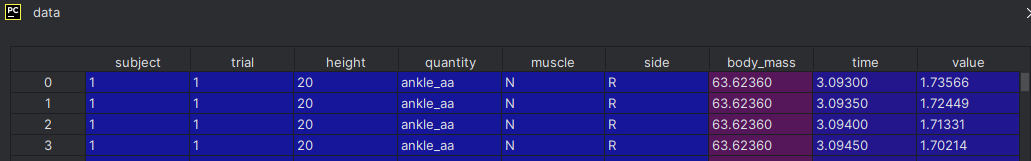
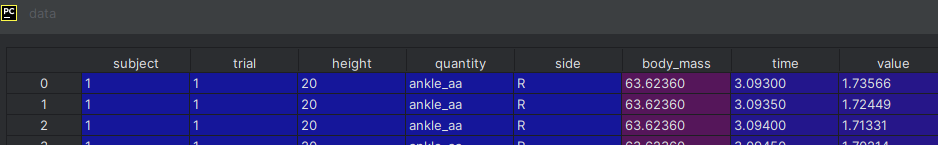
aggiornamento: tutti i files puliti e commentati

Changed region(s): [[0.0309, 0.3586, 1.0, 1.0], [0.0, 0.0, 0.0618, 0.1655], [0.9893, 0.0552, 1.0, 0.1103]]

diff --git a/preparation.py b/preparation.py
@@ -1,0 +1,94 @@
+import os
+import matplotlib
+matplotlib.use('TkAgg')
+from utilities import *
+
+fs = 2000
+###########################################################################################################
+# FINDs START END OF JUMP
+
+dir = '../data_pkl_all/'
+df= pd.DataFrame(columns = ['subject', 'trial', 'height', 'jump_start', 'jump_end', 'body_mass'])
+row_count = 0
+for filename in os.listdir(dir):
+    row_count +=1
+    data = pd.read_pickle(os.path.join(dir, filename))
+    fz =data['value'][data.quantity == 'fz'].reset_index(drop = True)
+    baseline = fz.iloc[:100].mean() # takes the first 0.1s of force data - unloaded plate
+
+    if abs(baseline) > 10: # if unloaded plate records more/less than 10N, I need to zero it:
+        fz = fz - baseline
+
+    jstart_approx = int(np.where(fz>20)[0][0] - 200) # take 0.1s before force crosses a 20N threshold
+    jend_approx = jstart_approx + 1000 # assume that contact time is below 0.5s (from visual inspection, I know this value works. The user may change it if needed).
+    wstart = len(fz) - 2000 # computes body weight in the interval 1-0.5s before end of file (quiet standing)
+    wend = len(fz) - 1000
+    body_mass = np.mean(fz[int(wstart) : int(wend)])/ 9.81 # N to kg
+
+    peak_ind = fz[jstart_approx : jend_approx].idxmax() #index of max val of the force in the time window considered
+    crossing20 = np.where(np.diff(np.sign(fz-20)) !=0)[0] #index where fz crosses 20N
+    pre_land = np.where(crossing20 < peak_ind)[0][-1] # last 20N crossing before peak fz, i.e. when she lands
+    land = crossing20[pre_land]
+    takeoff = crossing20[pre_land + 1]
+    # I take from 0.2 "contact-time times" pre to 0.01s post landing/takeoff . i do it so I can compare between subjects
+    jstart, jend = int(crossing20[pre_land] - 0.2*(takeoff - land)), int(crossing20[pre_land + 1] + 0.01*fs) # in samples, not s!
+    time = data['time'][data.quantity == 'fz'].reset_index(drop = True)
+    fz = data['value'][data.quantity == 'fz'].reset_index(drop = True)
+    
+    # sanity check with plots
+    plt.figure()
+    plt.plot(data['time'][data.quantity == 'fz'], data['value'][data.quantity == 'fz'])
+    plt.plot(time[[jstart, jend, wstart, wend]], fz[[jstart, jend, wstart, wend]], 'o', color = 'red')
+    plt.title("subject: " + str(data.iloc[0, 0]) + ", trial: " + str(data.iloc[0, 1]) + ", height: " + str(data.iloc[0, 2]))
+    plt.show()
+  
+    
+    
+   
+
+    row = [data.iloc[0, 0], data.iloc[0, 1],data.iloc[0, 2], jstart, jend, body_mass]
+    df.loc[len(df)] = row
+
+for subj in df.subject.unique():
+    df.loc[df["subject"] == subj, "body_mass"] = df["body_mass"].loc[df["subject"] == subj].mean()
+
+
+df.to_pickle('time_info_all.pkl')
+
+###################################################################################################
+###################################################################################################
+###################################################################################################
+# This part of the script trims the full files (it can be run independently or separately from the previous one)
+# retaining only the data from immediately before to after the contact time
+
+# time_info = df #uncomment if this part is run after the previous without stopping the algorithm and v.v.
+time_info = pd.read_pickle('time_info_all.pkl') # comment this line if if this part is run after the previous without stopping the algorithm and v.v.
+
+df = pd.DataFrame()
+for file in os.listdir("../data_pkl_all"):
+    print(file)
+    data = pd.read_pickle("../data_pkl_all/" + file)
+    subj = int(file.split("s")[1].split("_")[0])
+    h = int(file.split("_")[1].split("_")[0])
+    trial = int("_".join(file.split("_")[2:]).split(".")[0])
+
+    start = time_info['jump_start'][
+                (time_info.subject == subj) & (time_info.height == h) & (time_info.trial == trial)].item() / fs # samples to s
+    end = time_info['jump_end'][
+              (time_info.subject == subj) & (time_info.height == h) & (time_info.trial == trial)].item() / fs # samples to s
+
+    data_trial = data[(data.time >= start) & (data.time <= end)]
+    df = pd.concat([df, data_trial], axis=0)
+
+df.insert(6, 'body_mass', 0) # add body mass data from data frame previously created
+for subj in df.subject.unique():
+    df.loc[df['subject'] == subj, 'body_mass'] = time_info['body_mass'][time_info['subject'] == subj].iloc[0].item()
+
+df = df.sort_values(by=["subject", "height", "trial", "muscle", "quantity"], ascending=True)
+df = df.reset_index(drop=True)
+df.to_pickle('data_clean_all.pkl')
+
+
+
+
+

diff --git a/csv_to_pkl.py b/csv_to_pkl.py
@@ -1,0 +1,37 @@
+import pandas as pd
+import os
+from utilities import *
+import numpy as np
+
+subj = -1 # start from -1 cause in  the first iteration (all files in root dir) I have no files and no subjects
+for root, dirs, files in os.walk("../data_csv"):
+    subj += 1
+    trial = 0
+    h_prev = None
+    for f in files:
+        if f != 'info.csv':
+            height = int(f.split('JUMP', 1)[1][1:3])
+            data = pd.read_csv(os.path.join(root, f), skiprows = 3)
+            keep = list(set(data.columns) & set(column_rename().keys()))
+            data = data[keep]
+            data = data.rename(columns = column_rename(), errors="ignore")
+            data['time'] = data['time'] - data['time'][0]
+            data = data.melt(id_vars="time", var_name="quantity", value_name="value")
+
+            data.insert(2, 'side', np.where(data["quantity"].str.endswith("r"), 'R',  np.where(data["quantity"].str.endswith("l"), 'L', 'X')))
+            data.loc[(data["side"] == "R") |
+                     (data["side"] == "L"), "quantity"] = data.loc[(data["side"] == "R") |
+                                                                   (data["side"] == "L"), "quantity"].str[:-2]
+            trial = trial + 1 if height == h_prev else 1
+            data.insert(0, 'subject', subj)
+            data.insert(1, 'trial', trial)
+            data.insert(2, 'height', height)
+            data.insert(5, 'muscle', np.where(data["quantity"].isin(['bf', 'st','gm','gl','so','rf','vl','vm','ta',]), 'Y',  'N'))
+            data = data[["subject", "trial", "height", "quantity", "muscle", "side", "time", "value"]]
+            file_name = 's' + str(subj) + '_' + str(height) + '_' + str(trial) + '.pkl'
+            data.to_pickle('../data_pkl_all/' + file_name)
+            h_prev = height
+
+
+        else:
+            continue

diff --git a/plots_and_outputs.py b/plots_and_outputs.py
@@ -8,8 +8,7 @@ from matplotlib import pyplot as plt
 #from sklearn.linear_model import LinearRegression
 import matplotlib.cm as cmap
 
-df2 = pd.read_pickle("jump_data_all.pkl")
-df = pd.read_pickle("jump_data_new.pkl")
+df = pd.read_pickle("jump_data_new.pkl") # upload the data frame produced by the "variables_computation" script
 df["subject"] = df["subject"].astype("category")
 df["height"] = df["height"].astype("category")
 df['com_disp_min'] *= -1 # setting downwards displecement and velocities to positive (i.e. I take their absolute value)
